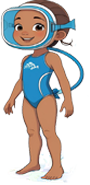
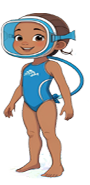
probando ajustes de pantalla 2

diff --git a/style.css b/style.css
@@ -1,4 +1,7 @@
-body {
+/*html {
+  zoom: 0.75; 
+}*/
+/*body {
   margin: 0;
   font-family: Arial, sans-serif;
  
@@ -12,8 +15,22 @@ body {
   align-items: center;
   
   flex-direction: column;
+}*/
+body {
+  margin: 0;
+  font-family: Arial, sans-serif;
+  background-image: url(./img/fondo.jpeg);
+  background-size: cover;
+  background-position: center;
+  
+  min-height: 100vh;
+  display: flex;
+  flex-direction: column;
+  align-items: center;
+  justify-content: start; /* evita centrado vertical completo */
+  overflow-y: auto; /* importante: permite scroll si se necesita */
 }
-
+/*
 #game-container {
   position: relative;
   width: 1000px;
@@ -31,7 +48,23 @@ body {
   box-sizing: border-box;
 
 
+}*/
+
+#game-container {
+  width: 100%;
+  max-width: 1000px;
+  height: auto;
+  aspect-ratio: 5 / 3; /* mantiene la proporción 1000x600 */
+  background-image: url(./img/cueva2.png);
+  background-size: cover;
+  background-position: center;
+  border: 10px solid #6d6d6d;
+  border-radius: 30px;
+  overflow: hidden;
 }
+
+
+
 .personaje {
 position: absolute;
   width: 90px;

diff --git a/main.js b/main.js
@@ -214,8 +214,12 @@ class Personaje {
     }
     mover(evento) {
         if (evento.key === "ArrowRight" && this.x + this.width + this.velocidad <= 950) {
+            this.element.style.backgroundImage = 'url(./img/lina.png)';
+
             this.x += this.velocidad;
         } else if (evento.key === "ArrowLeft" && this.x - this.velocidad >= 0) {
+            this.element.style.backgroundImage = 'url(./img/lina_left.png)';
+
             this.x -= this.velocidad;
         } else if (evento.key === "ArrowUp" && !this.saltando) {
             this.saltar();
